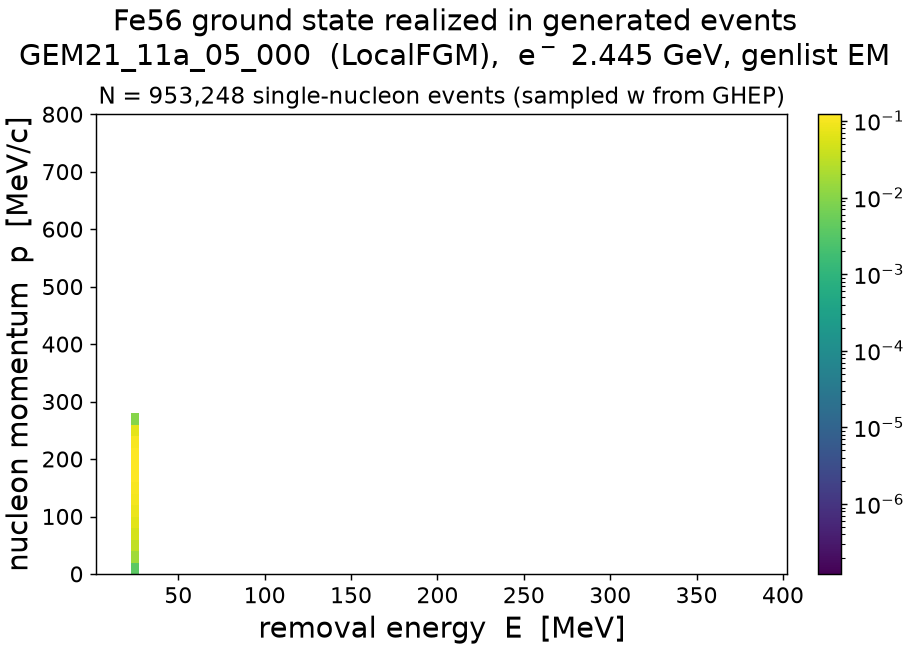
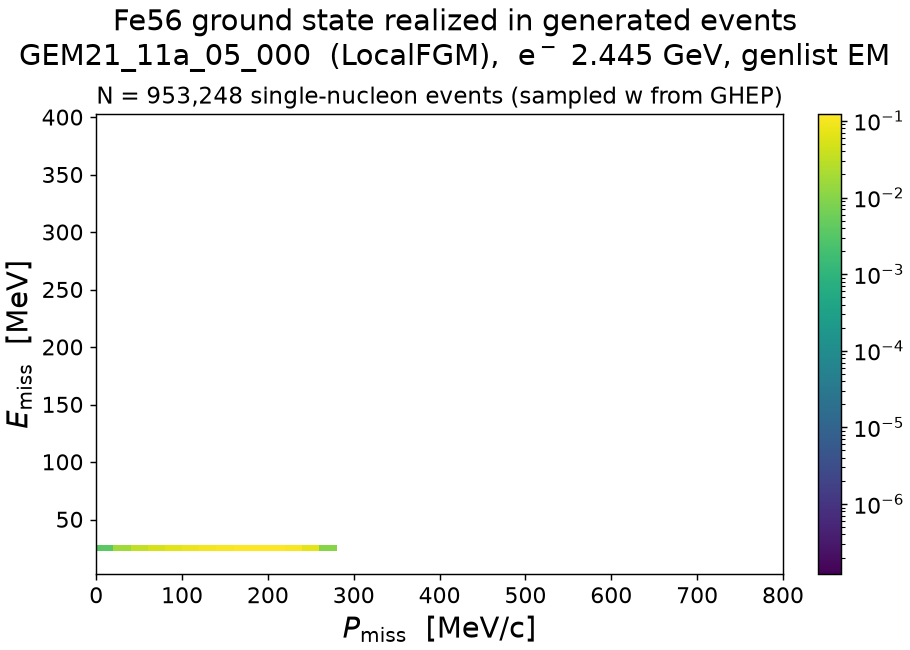
results: sf2d figures in missing-kinematics orientation (P_miss x, E_miss y)
Swap axes and relabel per (e,e'p) convention: x = P_miss [MeV/c],
y = E_miss [MeV], in both the input-table and generated-events plots;
panel titles updated to match. Content unchanged.

diff --git a/results/template/make_sf2d_events.py b/results/template/make_sf2d_events.py
@@ -64,10 +64,11 @@ def load_hist(csv: Path):
 
 
 def draw_panel(ax, fig, H, norm, add_cbar=True):
-    Xe, Ye = np.meshgrid(E_EDGES, P_EDGES, indexing="ij")
-    Zm = np.ma.masked_less_equal(H, 0.0)
+    # orientation: x = missing momentum P_miss, y = removal (missing) energy E_miss
+    Xe, Ye = np.meshgrid(P_EDGES, E_EDGES, indexing="ij")
+    Zm = np.ma.masked_less_equal(H.T, 0.0)
     pc = ax.pcolormesh(Xe, Ye, Zm, cmap="viridis", norm=norm)
-    ax.set_xlabel("removal energy  E  [MeV]", fontsize=FS_LABEL)
+    ax.set_xlabel(r"$P_{\rm miss}$  [MeV/c]", fontsize=FS_LABEL)
     ax.tick_params(labelsize=FS_TICK)
     if add_cbar:
         cb = fig.colorbar(pc, ax=ax, pad=0.02, fraction=0.046)
@@ -82,7 +83,7 @@ def single_figure(tune, H, c):
     fig, ax = plt.subplots(figsize=(w * 1.4, h), layout="constrained")
     norm = LogNorm(vmin=H.max() * 1e-6, vmax=H.max())
     draw_panel(ax, fig, H, norm)
-    ax.set_ylabel("nucleon momentum  p  [MeV/c]", fontsize=FS_LABEL)
+    ax.set_ylabel(r"$E_{\rm miss}$  [MeV]", fontsize=FS_LABEL)
     ax.set_title(f"N = {c['n_kept']:,} single-nucleon events (sampled w from GHEP)",
                  fontsize=FS_TITLE - 3)
     fig.suptitle(f"Fe56 ground state realized in generated events\n"
@@ -105,7 +106,7 @@ def combined_figure(results):
     for ax, (tune, H, c) in zip(axes, results):
         pc = draw_panel(ax, fig, H, norm, add_cbar=False)
         ax.set_title(f"{tune}\n{GROUND_STATE[tune]}", fontsize=FS_TITLE - 3)
-    axes[0].set_ylabel("nucleon momentum  p  [MeV/c]", fontsize=FS_LABEL)
+    axes[0].set_ylabel(r"$E_{\rm miss}$  [MeV]", fontsize=FS_LABEL)
     cb = fig.colorbar(pc, ax=axes, pad=0.01, fraction=0.02)
     cb.set_label("fraction of events / bin", fontsize=FS_TITLE - 2)
     cb.ax.tick_params(labelsize=FS_TICK)

diff --git a/results/template/make_sf2d_table.py b/results/template/make_sf2d_table.py
@@ -139,21 +139,22 @@ def make_figure(tune: str, target: str) -> bool:
     w, h = PANEL_SIZE
     fig, axes = plt.subplots(1, 2, figsize=(w * 2.4, h), sharey=True,
                              layout="constrained")
-    Xe, Ye = np.meshgrid(E_e, p_e, indexing="ij")
+    # orientation: x = missing momentum P_miss, y = removal (missing) energy E_miss
+    Xe, Ye = np.meshgrid(p_e, E_e, indexing="ij")
     panels = [
-        (S.T,  r"table density  S(p,E)  [MeV$^{-4}$]"),
-        (Wn.T, r"GENIE sampling weight  4$\pi$p$^2$S$\Delta$p$\Delta$E  (norm.)"),
+        (S,  r"table density  S($P_{\rm miss}$, $E_{\rm miss}$)  [MeV$^{-4}$]"),
+        (Wn, r"GENIE sampling weight  4$\pi P_{\rm miss}^2 S\,\Delta P\Delta E$  (norm.)"),
     ]
     for ax, (Z, label) in zip(axes, panels):
         Zm = np.ma.masked_less_equal(Z, 0.0)
         norm = LogNorm(vmin=Zm.max() * 1e-6, vmax=Zm.max())
         pc = ax.pcolormesh(Xe, Ye, Zm, cmap="viridis", norm=norm)
         ax.set_title(label, fontsize=FS_TITLE - 2)
-        ax.set_xlabel("removal energy  E  [MeV]", fontsize=FS_LABEL)
+        ax.set_xlabel(r"$P_{\rm miss}$  [MeV/c]", fontsize=FS_LABEL)
         ax.tick_params(labelsize=FS_TICK)
         cb = fig.colorbar(pc, ax=ax, pad=0.02, fraction=0.046)
         cb.ax.tick_params(labelsize=FS_TICK)
-    axes[0].set_ylabel("nucleon momentum  p  [MeV/c]", fontsize=FS_LABEL)
+    axes[0].set_ylabel(r"$E_{\rm miss}$  [MeV]", fontsize=FS_LABEL)
 
     shared_short = " (p and n)" if shared else ""
     fig.suptitle(f"{target} 2D spectral function from the GENIE input table\n"
